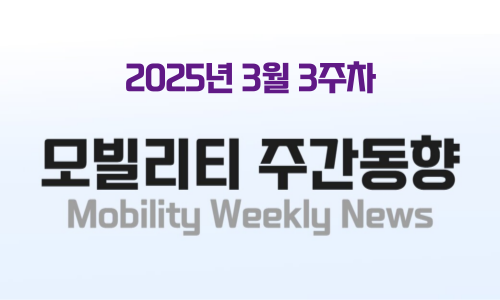
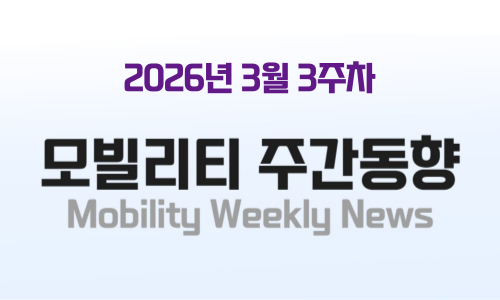
4m1w

Changed region(s): [[0.51, 0.21, 0.75, 0.3], [0.24, 0.21, 0.45, 0.3], [0.45, 0.24, 0.48, 0.27]]

diff --git a/archive/2026/04/index.html b/archive/2026/04/index.html
@@ -1,0 +1,179 @@
+<!DOCTYPE html>
+<html lang="ko">
+<head>
+  <meta property="og:title" content="모빌리티 주간동향">
+  <meta property="og:type" content="website">
+  <meta property="og:image" content="https://i.ibb.co/MxP3nf65/og-image2.png">
+  <meta property="og:description" content="매주 업데이트되는 모빌리티 동향 리포트">
+  <meta property="og:site_name" content="모빌리티 주간동향">
+  <meta property="og:url" content="https://busanbus.github.io/weekly-mobility/archive/2026/04/index.html">
+  <meta charset="UTF-8">
+  <meta name="viewport" content="width=device-width, initial-scale=1.0">
+  <title>2026년 3월 모빌리티 주간동향</title>
+  <!-- Google tag (gtag.js) -->
+  <script async src="https://www.googletagmanager.com/gtag/js?id=G-ZXZ064TVJE"></script>
+  <script>
+    window.dataLayer = window.dataLayer || [];
+    function gtag(){dataLayer.push(arguments);}
+    gtag('js', new Date());
+
+    gtag('config', 'G-ZXZ064TVJE');
+  </script>
+  <link href="https://fonts.googleapis.com/css2?family=Inter:wght@400;700&display=swap" rel="stylesheet">
+  <link rel="stylesheet" href="../../../style/style.css">
+  <link rel="icon" type="image/png" href="https://www.busanbus.or.kr/assets/img/common/favicon.png">
+  <meta name="theme-color" content="#ffffff" />
+
+  <style>
+    body {
+      font-family: 'Noto Sans KR', 'Inter', sans-serif;
+      margin: 0;
+      padding: 0;
+      background: #f9fafe;
+      color: #1a1d29;
+    }
+
+    /* --- 카드뉴스 및 그리드 등 기존 스타일 유지, .container -> .main-container로 변경 --- */
+    .main-container {
+      max-width: 960px;
+      margin: 40px auto;
+      padding: 0 20px;
+    }
+
+    .month-description {
+      font-size: 15px;
+      color: #5a6573;
+      text-align: center;
+      margin-bottom: 32px;
+    }
+
+    .week-grid {
+      display: grid;
+      grid-template-columns: repeat(auto-fit, minmax(280px, 1fr));
+      gap: 24px;
+    }
+
+    .week-card {
+      background: #fff;
+      border-radius: 12px;
+      box-shadow: 0 4px 16px rgba(0,0,0,0.05);
+      overflow: hidden;
+      text-decoration: none;
+      color: #1a1d29;
+      transition: transform 0.2s;
+    }
+
+    .week-card:hover {
+      transform: translateY(-4px);
+    }
+
+    .week-image {
+      width: 100%;
+      height: 180px;
+      background-color: #e6f1ff;
+      background-size: cover;
+      background-position: center;
+    }
+
+    .week-content {
+      padding: 16px;
+    }
+
+    .week-title {
+      font-size: 18px;
+      font-weight: 700;
+      margin-bottom: 6px;
+    }
+
+    .week-subtitle {
+      font-size: 12.5px;
+      color: #5a6573;
+    }
+
+    .info-box {
+      background: #fff;
+      border: none;
+      border-radius: 16px;
+      padding: 28px 32px;
+      margin: 36px 0 36px 0;
+      font-size: 18px;
+      color: #1a1d29;
+      text-align: center;
+      box-shadow: 0 4px 24px rgba(0,102,255,0.07), 0 1.5px 6px rgba(0,0,0,0.04);
+      font-weight: 600;
+    }
+  </style>
+</head>
+<body>
+  <div class="container">
+    <header class="header">
+      <div class="header-content">
+        <a href="https://www.busanbus.or.kr/#/" target="_blank" rel="noopener noreferrer">
+          <img src="../../../images/logo.svg" alt="조합 로고" class="header-logo" />
+        </a>
+        <span class="header-publisher">발행 : 전략기획팀</span>
+        <div class="header-date">
+          <span class="date-week-text">2026년 4월 주간 모음</span>
+        </div>
+        <div class="logo-section">
+          <a href="../../../index.html" rel="noopener noreferrer">
+            <img src="../../../images/logo.png" alt="모빌리티 주간동향 로고" />
+          </a>
+        </div>
+      </div>
+    </header>
+    <main class="main-container">
+      <div class="info-box">
+        2026년 4월 한 달간 주간 모빌리티 정책·산업 동향을 정리했습니다.<br>
+        각 주차별 내용을 클릭하면 상세 페이지로 이동합니다.
+      </div>
+
+      <div class="week-grid">
+        <a href="week1.html" class="week-card">
+          <div class="week-image" style="background-image: url('week1.png');"></div>
+          <div class="week-content">
+            <div class="week-title">2026년 4월 1주차</div>
+            <div class="week-subtitle">
+              테슬라 FSD 기능 무단 활성화는 불법<br>3칸 굴절버스 시험운행<br>도시철도 양산선 운영 업무협약
+            </div>
+          </div>
+        </a>
+
+        <a href="week2.html" class="week-card">
+          <div class="week-image" style="background-image: url('week2.png');"></div>
+          <div class="week-content">
+            <div class="week-title">2026년 4월 2주차</div>
+            <div class="week-subtitle">
+
+            </div>
+          </div>
+        </a>
+
+        <a href="week3.html" class="week-card">
+          <div class="week-image" style="background-image: url('week3.png');"></div>
+          <div class="week-content">
+            <div class="week-title">2026년 4월 3주차</div>
+            <div class="week-subtitle">
+            </div>
+          </div>
+        </a>
+
+        <a href="week4.html" class="week-card">
+          <div class="week-image" style="background-image: url('week4.png');"></div>
+          <div class="week-content">
+            <div class="week-title">2026년 4월 4주차</div>
+            <div class="week-subtitle">
+            </div>
+          </div>
+        </a>
+
+
+      </div>
+    </main>
+    <mobility-footer lang="ko"></mobility-footer>
+  </div>
+  <floating-sns></floating-sns>
+  <script type="module" src="../../../components/floating-sns.js"></script>
+  <script type="module" src="../../../components/footer.js"></script>
+</body>
+</html>
